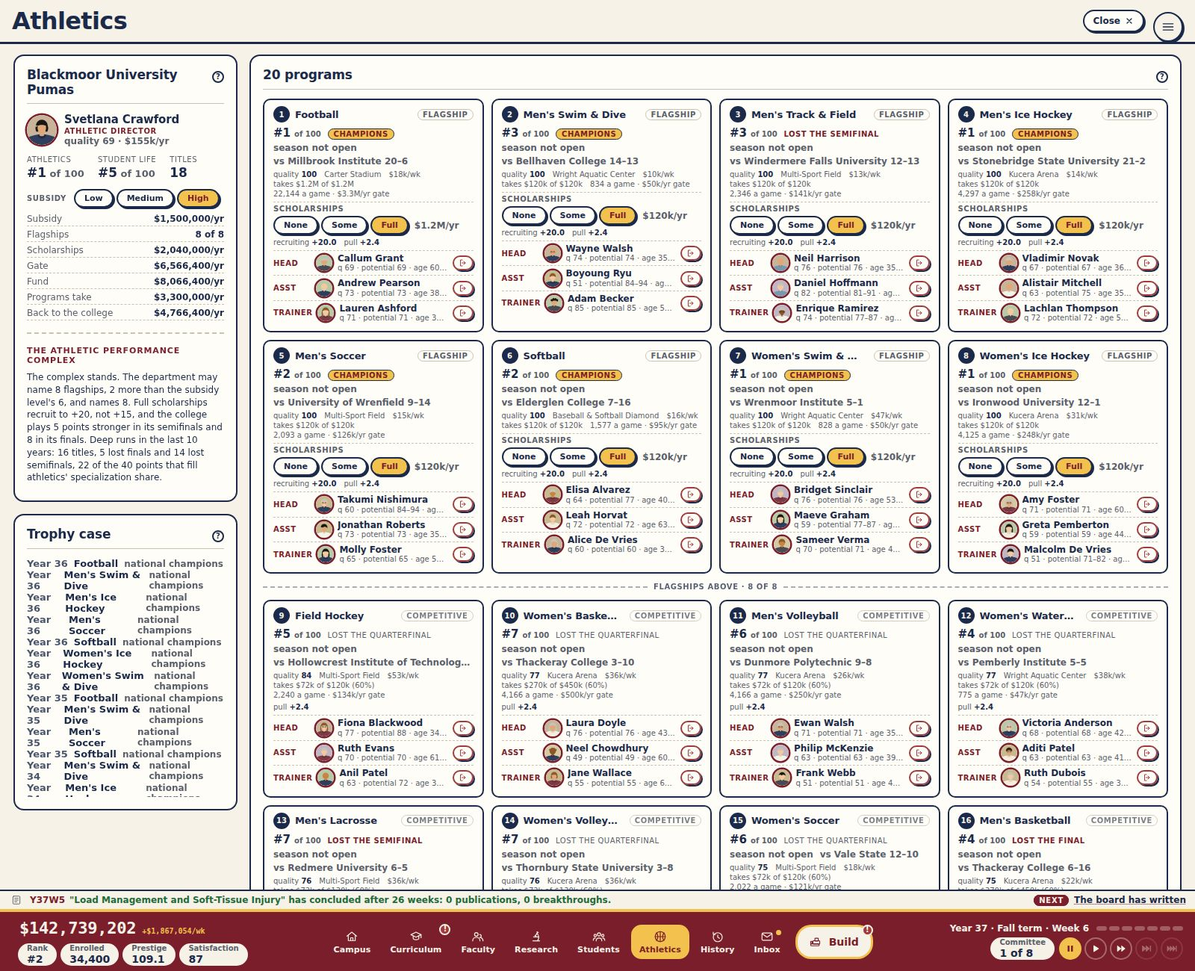
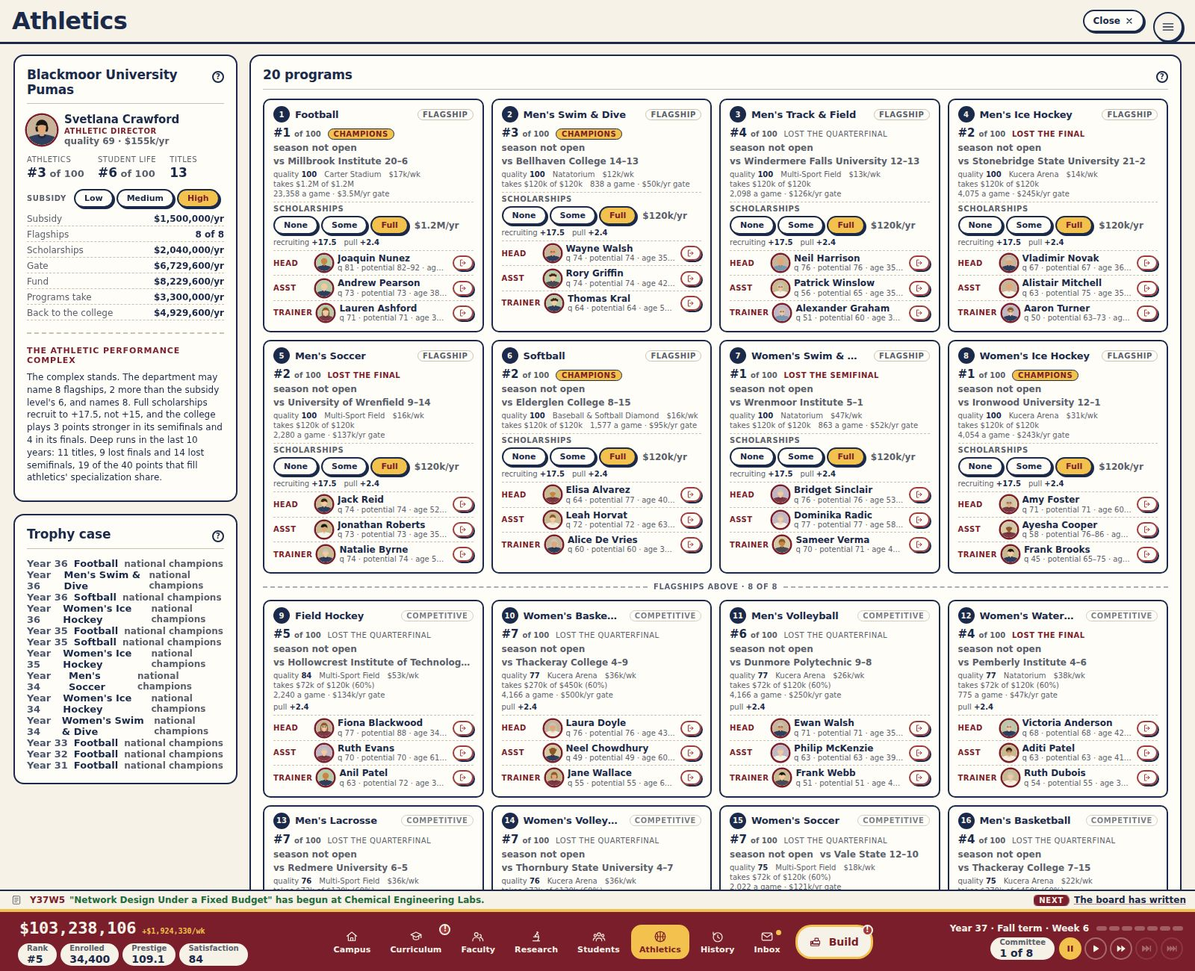
Plan 85G: the owner's decisions (fewer titles); #280
The owner kept the complex's cost ($30M, 104 weeks, $35,000 a week) and
asked for fewer titles, about 25-40 by year 50. The complex's postseason
edge is halved (semifinal +5 -> +3, final +8 -> +4) and its recruiting
boost with it (+1/3 -> +1/6); the two extra flagships are kept and the
term's full mark stays at 40, which still fills it 10-11 years after the
choice.

Halving is not enough: the athletics specialists win 49-64 (Guided) and
28-69 (Completionist) by year 50, against 56-80 and 33-70. The main driver
is the specialization's own lift (85D), not the complex: with none of the
complex's mechanics Guided still wins 31-38. The note measures a lever
for the owner (a quarter of the big stage kept for the specialized
college: Guided 18-41, Completionist 12-30) without building it.

Unspecialized play is unchanged and never first; the athletics
specialists are first from years 40-45 (Guided, every seed) and 45 (the
Completionist, two of three). Merged main (#279's canvas hotfix); the PR
is #280. Sim re-recorded with 0 deltas; tab, term and choice screenshots
retaken.

Claude-Session: https://claude.ai/code/session_01626829xCDikHrhnzaA5AeP

diff --git a/unischool/src/data/athleticsComplexData.ts b/unischool/src/data/athleticsComplexData.ts
@@ -27,20 +27,22 @@ export const ATHLETICS_COMPLEX_NAME = 'the Athletic Performance Complex';
 // for the owner's review.
 export const COMPLEX_FLAGSHIPS = 2;
 
-// The recruiting boost (a proposal, for the owner's review): while the
-// complex works, every flagship's scholarships recruit this much more, so
-// full scholarships build to +20 over the four classes, not +15
+// The recruiting boost (the owner's decision, 2026-10-01: halved from the
+// first version's third, for fewer titles): while the complex works, every
+// flagship's scholarships recruit this much more, so full scholarships
+// build to +17.5 over the four classes, not +15
 // (studentLifeData.ts's RECRUITING_FULL_LIFT). It builds a class a year, as
 // recruiting does, and falls away a class a year if the complex goes.
-export const COMPLEX_RECRUITING_BOOST = 1 / 3;
+export const COMPLEX_RECRUITING_BOOST = 1 / 6;
 
-// Better odds deep in the postseason (a proposal, for the owner's review):
-// while the complex works, the college plays this many points stronger in
+// Better odds deep in the postseason (the owner's decision, 2026-10-01:
+// about halved from the first version's 5 and 8, for fewer titles): while
+// the complex works, the college plays this many points stronger in
 // its own semifinals and finals (playoffs.ts's stageEdge; at 25 points of
 // difference the stronger side wins about three times in four). The
 // athletics specialization alone takes the established powers' edge away
 // (Plan 85D); the complex turns the big stage the college's way.
-export const COMPLEX_HOME_EDGE: Readonly<Record<'quarterfinal' | 'semifinal' | 'final', number>> = { quarterfinal: 0, semifinal: 5, final: 8 };
+export const COMPLEX_HOME_EDGE: Readonly<Record<'quarterfinal' | 'semifinal' | 'final', number>> = { quarterfinal: 0, semifinal: 3, final: 4 };
 
 // The athletics pillar's specialization term reads the complex's deep
 // runs: each postseason the department reached the last four while the
@@ -128,7 +130,7 @@ export function complexReading(s: GameState): number {
 const pct = (x: number) => `${Math.round(x * 100)}%`;
 const points = (x: number) => (Math.abs(x - Math.round(x)) < 0.01 ? `${Math.round(x)}` : x.toFixed(2).replace(/0$/, ''));
 const count = (n: number, one: string, many: string) => `${n} ${n === 1 ? one : many}`;
-const recruitedFull = (full: number) => Math.round(full * (1 + COMPLEX_RECRUITING_BOOST));
+const recruitedFull = (full: number) => Number((full * (1 + COMPLEX_RECRUITING_BOOST)).toFixed(1));
 const SCORING = 'a title counts 1, a lost final a half and a lost semifinal a quarter';
 
 export function runsSummary(s: GameState): string {

diff --git a/unischool/src/data/projectData.ts b/unischool/src/data/projectData.ts
@@ -116,7 +116,7 @@ export const PROJECTS: readonly ProjectDef[] = [
   // Costed beside the Faculty Training Institute, the other specialization
   // building a college can raise at the choice, and well above the venues
   // (the Football Stadium is $6.5M), since it is a capital project; its
-  // upkeep is the complex's running cost. A proposal, for the owner's review.
+  // upkeep is the complex's running cost. Kept by the owner (2026-10-01).
   {
     id: 'PROJ-ATHLETICS-COMPLEX', name: 'The Athletic Performance Complex',
     description: `A glass-walled training center beside the venues: a strength hall, a sports-science lab, recovery pools, film rooms and a running track on the roof, where every varsity athlete trains. At a college specialized in athletics it carries ${COMPLEX_FLAGSHIPS} more flagship programs than the subsidy level allows, its scholarships recruit ${Math.round(COMPLEX_RECRUITING_BOOST * 100)}% more, its teams play stronger in a semifinal and a final, and its deep runs fill athletics' specialization share.`,

diff --git a/docs/plans/85-specializations.md b/docs/plans/85-specializations.md
@@ -5,7 +5,7 @@ trade-offs into PRs: four pillars of success, a college that can be
 excellent at all four, and a late, permanent choice that lets it be the
 very best at one.*
 
-**Status: In progress: A–G merged (#268, #274–#279).**
+**Status: In progress: A–G merged (#268, #274–#278, #280).**
 
 ---
 
@@ -1351,17 +1351,30 @@ direct lift, and the boost is 15%.
 - **Checks:** the harness's athletics specialist wins titles regularly by
   year 50, and an unspecialized goal player rarely does.
 
-**As implemented (#279):** a college specialized in athletics may build the
+**As implemented (#280):** a college specialized in athletics may build the
 Athletic Performance Complex, and while it stands there the department may
 name two flagships above its subsidy level's, its scholarships recruit a
-third more, and the college plays stronger in its own semifinals and finals.
+sixth more, and the college plays stronger in its own semifinals and finals.
 The athletics pillar's specialization term now reads what the complex
 produces, the department's deep postseason runs over the last ten years, in
 place of 85D's ten years. Save version 92. *"Lifts the athletics pillar's
 ceiling" is the term since 85D's review: no pillar has a ceiling (§2).*
-**Every size below is a proposal, for the owner's review:** the complex's
-cost and upkeep, the two flagships, the recruiting boost, the postseason
-edge and the term's reading.
+**The owner's decisions (2026-10-01), reviewing the first version:**
+
+1. **The complex's cost is kept:** $30M to build over 104 weeks, and $35,000
+   a week to run.
+2. **Fewer titles: about one or two a year, around 25 to 40 by year 50.**
+   The first version's athletics specialists won 56 to 80, up to seven in a
+   year. The complex's postseason edge was halved (a semifinal +5 → +3, a
+   final +8 → +4) and its recruiting boost with it (+⅓ → +⅙); the two extra
+   flagships were kept. That is not enough on its own: the specialists win
+   49 to 64 (Guided) and 28 to 69 (the Completionist). What drives the count
+   is the athletics specialization's own lift (85D), not the complex: with
+   no slowdown and no edge for the established powers, every flagship plays
+   at 100 and wins, and with none of the complex's mechanics at all Guided
+   still won 31 to 38. The lever proposed below (a quarter of the big stage
+   kept for the specialized college) is measured, not built: it touches
+   85D's lift, which the owner asked not to change here.
 
 - **The complex** (`projectData.ts`'s `PROJ-ATHLETICS-COMPLEX`, "The
   Athletic Performance Complex") is a capital project like the others, built
@@ -1371,8 +1384,8 @@ edge and the term's reading.
   and the build menu lists it closed, with the reason, to any other college
   (85F's `closedBySpecialization`). It lifts no standing of its own: the
   term reads what it does.
-  - **Cost (a proposal):** $30M and 104 weeks, with upkeep of $35,000 a
-    week: the Faculty Training Institute's figures, the other specialization
+  - **Cost (kept by the owner):** $30M and 104 weeks, with upkeep of $35,000
+    a week: the Faculty Training Institute's figures, the other specialization
     building a college raises at the choice. The venues are far cheaper (the
     Football Stadium is $6.5M, the Arena $1.8M), but the complex is a
     capital project, priced with the Graduate College ($25M) and the
@@ -1395,18 +1408,19 @@ edge and the term's reading.
   - **More flagships** (`COMPLEX_FLAGSHIPS`, 2): `departmentPot`'s cap is the
     subsidy level's 2, 4 or 6 and two more; the pot carries `baseCap`, the
     subsidy level's alone. Each is funded in full and may recruit.
-  - **A recruiting boost (a proposal: a third, `COMPLEX_RECRUITING_BOOST`):**
-    `recruitingTarget` takes the boost, so full scholarships build to +20
-    over the four classes, not +15. It builds and falls away a class a year,
-    as recruiting does. The scale's top is `RECRUITING_MAX_LIFT`, 20, which
-    the load's clamp and the invariants read.
-  - **Better odds deep in the postseason (a proposal:
-    `COMPLEX_HOME_EDGE`, 5 in a semifinal and 8 in a final):** with the
-    athletics specialization `stageEdge` is the complex's edge negated, so
-    the college plays that much stronger in its own semifinals and finals.
-    At 25 points of difference the stronger side wins three times in four;
-    8 points makes a final between equals about three in five. The draws are
-    unchanged.
+  - **A recruiting boost (the owner's halving: a sixth,
+    `COMPLEX_RECRUITING_BOOST`; it was a third):** `recruitingTarget` takes
+    the boost, so full scholarships build to +17.5 over the four classes, not
+    +15. It builds and falls away a class a year, as recruiting does. The
+    scale's top is `RECRUITING_MAX_LIFT`, 17.5, which the load's clamp and
+    the invariants read.
+  - **Better odds deep in the postseason (the owner's halving:
+    `COMPLEX_HOME_EDGE`, 3 in a semifinal and 4 in a final; it was 5 and
+    8):** with the athletics specialization `stageEdge` is the complex's edge
+    negated, so the college plays that much stronger in its own semifinals
+    and finals. At 25 points of difference the stronger side wins three
+    times in four; 4 points makes a final between equals about 59 in 100.
+    The draws are unchanged.
 - **The term reads the complex** (`complexReading`,
   `SPECIALIZATION_READINGS.athletics`): the department's deep runs in the
   last `COMPLEX_WINDOW_YEARS` (10), a title worth 1, a lost final a half and
@@ -1414,8 +1428,8 @@ edge and the term's reading.
   `COMPLEX_POINTS_FOR_FULL` (40). Nothing while no complex stands: the row
   says the complex is missing, or still going up, and how it fills.
   Standing, it reads "…training at the Athletic Performance Complex, its
-  programs have made 16 titles, 5 lost finals and 14 lost semifinals in the
-  last 10 years, 22 points (a title counts 1, a lost final a half and a lost
+  programs have made 11 titles, 9 lost finals and 14 lost semifinals in the
+  last 10 years, 19 points (a title counts 1, a lost final a half and a lost
   semifinal a quarter). It fills as that rises, full at 40."
   - **The record:** `orgs.complexRuns`, a year, a sport and a finish, the
     window's years only, written by the postseason (`playoffs.ts`'s
@@ -1429,15 +1443,18 @@ edge and the term's reading.
     slowdown gone, every flagship of the harness's specialist plays at 100
     about six years after the choice.
   - **Pacing:** at 12 points the term filled three years after the complex
-    opened; at 40 it fills 10 or 11 years after the choice for the Guided
-    variant and 10 to 12 for the Completionist's, the build included, as
-    academics and research fill. The deep runs settle at 39 to 48 points a
-    window by year 50, so it stays nearly full (0.98 to 1.0).
+    opened; at 40 it fills 10 or 11 years after the choice, the build
+    included, as academics and research fill. With the owner's halved edge
+    and boost the deep runs barely fell (most of them come from flagships
+    playing at 100, above), so the full mark stays at 40, which still fills
+    it in 10 or 11 years. The deep runs stand at 39 to 51
+    points a window at year 50, so it stays nearly full (0.97 to 1.0). (The
+    first version's figures: 40, 43, 40 and 45, 51, 41.)
 
     | | Choice | Complex begun / open | Half full | Full | Years to fill |
     |---|---|---|---|---|---|
-    | Guided, athletics | 30, 32, 30 | 31 / 33, 33 / 35, 31 / 33 | 37, 40, 37 | 40, 43, 40 | 10, 11, 10 |
-    | Completionist, athletics | 34, 39, 31 | 35 / 37, 40 / 42, 32 / 34 | 41, 47, 38 | 45, 51, 41 | 11, 12, 10 |
+    | Guided, athletics | 30, 32, 30 | 31 / 33, 33 / 35, 31 / 33 | 38, 39, 36 | 41, 43, 40 | 11, 11, 10 |
+    | Completionist, athletics | 34, 39, 31 | 35 / 37, 40 / 42, 32 / 34 | 42, 47, 38 | 44, 50, 41 | 10, 11, 10 |
 - **The words** (`athleticsComplexData.ts`'s `COMPLEX_WORDS`, Plan 47's
   glossary, which gains *deep run*):
   - **the choice's card:** the athletics card's opening line ends "filling
@@ -1453,7 +1470,7 @@ edge and the term's reading.
     otherwise that it is the athletics specialization's own building. The
     Flagships figure reads "8 of 8" and its hint counts the complex's slots;
     the order's help says the line is the subsidy's and the complex's; a
-    flagship's scholarship buttons and recruiting line say +20 at the
+    flagship's scholarship buttons and recruiting line say +17.5 at the
     complex;
   - **the complex's description** says what it does, and only for a college
     specialized in athletics.
@@ -1488,7 +1505,7 @@ edge and the term's reading.
   week for a college specialized in athletics, as a new run's does), and the
   record starts empty. `test/fixtures/save-v91.json` is the
   `year-8-balanced` scenario written before the bump. The load drops a
-  malformed run (`sanitizeComplexRuns`) and clamps recruiting to 0–20.
+  malformed run (`sanitizeComplexRuns`) and clamps recruiting to 0–17.5.
 - **The sim moves**, against main's baseline (85F), medians of three seeds;
   pillar ranks at year 50, academics / research / student life / athletics:
 
@@ -1499,8 +1516,8 @@ edge and the term's reading.
   | Selective | 60 / 57 / 61 | 43.2 / 51.6 / 53.1 | 86.4 / 81.1 / 82.3 | 57 / 63 / 21 / 100 |
   | Lean | 64 / 64 / 72 | 40.1 / 43.3 / 42.8 | 75.8 / 75.0 / 73.8 | 56 / 81 / 27 / 100 |
   | Idle | 80 / 66 / 75 | 30.4 / 41.9 / 38.8 | 84.0 / 84.0 / 84.1 | 79 / 80 / 28 / 100 |
-  | Guided, athletics (fixed pick) | 56 / 29 / 1 (−1) | 50.2 / 80.0 / 123.1 (+7.5) | 85.8 / 83.7 / 87.1 (+0.3) | 9 / 9 / 4 / 1, was 8 / 9 / 4 / 19 |
-  | Completionist, athletics (fixed pick) | 56 / 34 / 1 (−2) | 50.1 / 79.1 / 121.8 (+8.5) | 85.7 / 88.2 / 89.2 (−0.1) | 8 / 11 / 4 / 1, was 9 / 14 / 4 / 13 |
+  | Guided, athletics (fixed pick) | 56 / 29 / 1 (−1) | 50.2 / 80.0 / 123.9 (+8.3) | 85.8 / 83.7 / 87.3 (+0.5) | 8 / 8 / 4 / 1, was 8 / 9 / 4 / 19 |
+  | Completionist, athletics (fixed pick) | 56 / 34 / 1 (−2) | 50.1 / 79.1 / 121.7 (+8.4) | 85.7 / 88.2 / 89.9 (+0.6) | 9 / 10 / 4 / 1, was 9 / 14 / 4 / 13 |
 
   When each first reached each place, its pick and the complex (seeds 12345,
   4242, 777; the year's first week):
@@ -1510,9 +1527,9 @@ edge and the term's reading.
   | Guided | 30, 32, 29 | 36, 40, 35 | 46, 47, 42 | academics 30, 32, 30 | never |
   | Completionist | 33, 39, 31 | 40, 43, 40 | 47, never (best 2), 47 | academics 34, 39, 31 | never |
   | Guided, athletics, 85F | 30, 32, 29 | 35, 42, 34 | 49, never (best 4), never (best 2) | athletics 30, 32, 30 | (none) |
-  | Guided, athletics, now | 30, 32, 29 | 34, 38, 35 | 42, 45, 42 | athletics 30, 32, 30 | 31 / 33, 33 / 35, 31 / 33 |
+  | Guided, athletics, now | 30, 32, 29 | 34, 38, 35 | 42, 45, 40 | athletics 30, 32, 30 | 31 / 33, 33 / 35, 31 / 33 |
   | Completionist, athletics, 85F | 33, 39, 31 | 39, 43, 42 | 50, never (best 3), never (best 3) | athletics 34, 39, 31 | (none) |
-  | Completionist, athletics, now | 33, 39, 31 | 39, 43, 39 | 46, never (best 2), 43 | athletics 34, 39, 31 | 35 / 37, 40 / 42, 32 / 34 |
+  | Completionist, athletics, now | 33, 39, 31 | 38, 43, 38 | 45, never (best 2), 45 | athletics 34, 39, 31 | 35 / 37, 40 / 42, 32 / 34 |
 
   - **Nothing moves but the athletics specialists.** Guided, the
     Completionist, Selective, Lean and Idle are identical to main's on every
@@ -1523,12 +1540,13 @@ edge and the term's reading.
     place is 3, 3 and 5 and its prestige at year 50 110.9; the
     Completionist's 4, 4 and 7 and 110.5: as before, never first.
     Specialized in athletics, Guided is first on every seed, from years 42,
-    45 and 42 and at year 50; the Completionist on two of three, from 46 and
-    43 (second on 4242, which chooses in Year 39). Before, held to
+    45 and 40 and at year 50; the Completionist on two of three, from 45 and
+    45 (second on 4242, which chooses in Year 39). With the first version's
+    larger edge and boost the years were 42, 45, 42 and 46, 43. Before, held to
     athletics, Guided was first on one seed (Year 49) and the Completionist
     on one (Year 50).
   - **Why the athletics specialist now stands highest of all:** its prestige
-    at year 50 is 122.7 to 124.8, against 119.0 to 120.6 for Guided's own
+    at year 50 is 122.6 to 124.1, against 119.0 to 120.6 for Guided's own
     academics pick. Most of it is the department, not the complex: Guided
     hires no coaches and names no flagships unless it is specialized in
     athletics, so its athletics pillar stands at 57 to 61 (80th to 81st)
@@ -1549,23 +1567,44 @@ edge and the term's reading.
   | Championships goal player, athletics pick | the same: never offered the choice (best place 41st) | | | | |
   | Championships goal player, handed athletics at Year 30 (what-if) | 22 (13–30) | 1 | 95 (75–105) | 1 | 38 (34–41) |
   | Guided, athletics, 85F | never | 0 | 0 | 18, 19, 19 | 1, 4, 2 |
-  | Guided, athletics, now | 31, 35, 31 | 0 | 65, 56, 80 | 1, 1, 1 | 1, 1, 1 |
-  | Guided, athletics, the complex's mechanics off | 31, 36, 31 | 0 | 35, 31, 38 | 1, 1, 1 | (measured with the term at 12) |
+  | Guided, athletics, first version (+5 / +8, +⅓) | 31, 35, 31 | 0 | 65, 56, 80 | 1, 1, 1 | 1, 1, 1 |
+  | **Guided, athletics, now (+3 / +4, +⅙)** | 31, 35, 31 | 0 | 61, 49, 64 | 1, 1, 1 | 1, 1, 1 |
+  | Guided, athletics, now but no extra flagships | 31, 35, 31 | 0 | 44, 43, 52 | 1, 1, 1 | 1, 1, 1 |
+  | Guided, athletics, none of the complex's mechanics | 31, 36, 31 | 0 | 35, 31, 38 | 1, 1, 1 | (measured with the term at 12) |
+  | Guided, athletics, now, with the lever: ¼ of the big stage kept | 33, 35, 32 | 0 | 41, 18, 32 | 1, 1, 1 | 1, 1, 1 |
   | Completionist, athletics, 85F | never | 0 | 0 | 13, 11, 15 | 1, 3, 3 |
-  | Completionist, athletics, now | 35, 42, 32 | 0 | 48, 33, 70 | 1, 1, 1 | 1, 2, 1 |
+  | Completionist, athletics, first version | 35, 42, 32 | 0 | 48, 33, 70 | 1, 1, 1 | 1, 2, 1 |
+  | **Completionist, athletics, now** | 35, 42, 32 | 0 | 48, 28, 69 | 1, 1, 1 | 1, 2, 1 |
+  | Completionist, athletics, now but no extra flagships | 35, 42, 32 | 0 | 28, 22, 43 | 1, 1, 1 | 1, 2, 1 |
+  | Completionist, athletics, now, with the lever: ¼ kept | 37, 42, 33 | 0 | 19, 12, 30 | 1, 1, 1 | 1, 2, 1 |
 
   - **The check is met:** the athletics specialist wins titles every year
-    from the year after its choice, three to four a year once the complex
-    stands (up to seven in one year), and the unspecialized championships player wins one to five in
-    fifty years. Nothing moves before the choice (no title by year 25 for
-    anyone held to athletics).
-  - **The first title comes from the specialization, the rate from the
-    complex.** With the specialization and the harness's department, and
-    none of the complex's mechanics (no extra flagships, no boost, no edge),
-    Guided wins 31 to 38 by year 50; with them, 56 to 80. Every flagship
-    plays at 100 by about six years after the choice, so the recruiting
-    boost mostly shortens the climb; the extra slots and the edge make the
-    difference in titles.
+    from the year after its choice, about three a year once the complex
+    stands (up to seven in one year), and the unspecialized championships
+    player wins one to five in fifty years. Nothing moves before the choice
+    (no title by year 25 for anyone held to athletics).
+  - **The owner's target (25 to 40) is not met by the complex's numbers.**
+    Halving the edge and the boost took off only 4 to 16 titles for Guided.
+    Of what is left, the two extra flagships are worth 6 to 17 for Guided
+    and 6 to 26 for the Completionist (without them Guided wins 43 to 52,
+    the Completionist 22 to 43), and the
+    specialization's lift itself about 31 to 38: with none of the complex's
+    mechanics, every flagship plays at 100 about six years after the choice
+    and no established power has an edge over it. The extra flagships are
+    the complex's largest driver but not the main one, so they are kept.
+  - **The lever proposed, for the owner's decision** (measured only, in a
+    copy; nothing changed in the game): keep part of the big stage
+    (`STAGE_EDGE`, 8 / 20 / 35) against a college specialized in athletics,
+    in place of 85D's taking it all away, with the complex's edge then
+    offsetting it. With a quarter kept (2 / 5 / 9 before the complex, so
+    2 / 2 / 5 with it) and everything else as now, Guided wins 18 to 41 by
+    year 50 and the Completionist 12 to 30, about one or two a year, and
+    both are still first where they were (Guided in years 43, 45 and 43; the
+    Completionist in 47 and 44, second on 4242). With half kept, Guided
+    wins 13 to 26 and the Completionist 9 to 10; with three quarters, 7 to
+    10 and 2 to 7. The term's full mark would then come down with the runs
+    (they stand at 23 to 40 points a window at year 50 with a quarter kept),
+    to about 25.
   - **The championships goal player never reaches the milestone,** so a
     fixed athletics pick changes nothing for it (its best place in any run
     is 41st): it builds athletics first and the college that pays for it
@@ -1578,15 +1617,14 @@ edge and the term's reading.
     alone cannot carry a college to first place: that needs the other three
     pillars near the top, as the Guided and Completionist variants have.
 - **What is left for 85I** (open):
-  - **The sizes** above are proposals: two flagships, a third more
-    recruiting, 5 and 8 points in the semifinal and final, a full term at 40
-    points of deep runs, and $30M with $35,000 a week.
-  - **Titles are plentiful** for the athletics specialist: 56 to 80 by year
-    50, up to seven in a year. The athletics pillar is full either way (its
-    titles term fills at 12 weighted titles), so the count matters for the
-    term's pacing and the side effects (applicants, donors) more than for
-    prestige. Smaller edges would bring the count down, and the term's
-    full mark with it.
+  - **The lever above,** for the owner: a quarter of the big stage kept for
+    the athletics specialist, which would bring the titles into 25 to 40
+    and the term's full mark to about 25.
+  - **Titles are still plentiful** for the athletics specialist: 49 to 64
+    (Guided) and 28 to 69 (the Completionist) by year 50. The athletics
+    pillar is full either way (its titles term fills at 12 weighted titles),
+    so the count matters for the term's pacing and the side effects
+    (applicants, donors) more than for prestige.
   - **The athletics specialist stands above the academic one** at year 50
     (above): a harness asymmetry, for 85I's variants.
   - **The championships goal player cannot specialize:** it never reaches
@@ -1624,7 +1662,7 @@ edge and the term's reading.
   - `85g-athletics-tab.jpg`, the Athletics tab: eight flagships, the
     complex's section, the trophy case;
   - `85g-athletics-term.jpg`, History › Prestige with athletics opened on
-    the term (22 of 40 points);
+    the term (19 of 40 points);
   - `85g-choice.jpg`, the choice in Year 31 (the `specialization`
     scenario) with the complex and its mechanics under *Now*.
 

diff --git a/docs/plans/README.md b/docs/plans/README.md
@@ -104,7 +104,7 @@ the repository root, and the game as it actually is lives in `docs/design/` and
 | 82 | [Turning whole](82-turning-whole.md) | The owner: rotation is broken, walkers, trees and the land around the campus vanish on the in-between frames; go back to a turn that draws everything. Undo 80H's light turn and 81B's hidden ring, and draw the walkers at the scene's committed camera. PR A. | Landed |
 | 83 | [A faster map](83-a-faster-map.md) | The backlog's faster map, planned: the SVG scene (about 17,600 nodes at year 30) rebuilds every frame of a turn, about 195 ms a frame. A canvas 2D painter reusing the existing art, the projection and the depth sort, with labels and marks staying SVG over it; a measured prototype decides go or stop, then the scene with picking, walkers drawn in the depth order, and the tools and keyboard access, with the SVG scene kept as the fallback. PRs A–E. | Landed |
 | 84 | [The faculty as people](84-the-faculty-as-people.md) | The owner's faculty ideas: a candidate market whose potentials rise with prestige and research standing (raw at first, growing with tenure), so a retirement late in a run finds a better replacement; a career record on each professor (arrival, courses taught by span, research, prizes, yearly stats); the Faculty tab as a sortable, filterable grid of portrait tiles; and a tile that expands into the person. PRs A–E. | Landed |
-| 85 | [Specializations](85-specializations.md) | The owner's four pillars (academics, research, student life, athletics; athletics counting least) with prestige as their blend, which changes the standing decision that prestige is academic standing. Each pillar capped a little short without its specialization, so optimal play reaches the top 10; a permanent choice at a rank milestone reached in years 25–40 lifts one: a faculty training program, the research park, the downtown and its festival, or an athletic performance complex. Rivals specialize too; athletics made harder. Depends on Plan 84's grid. PRs A–I. | In progress: A–G merged (#268, #274–#279) |
+| 85 | [Specializations](85-specializations.md) | The owner's four pillars (academics, research, student life, athletics; athletics counting least) with prestige as their blend, which changes the standing decision that prestige is academic standing. Each pillar capped a little short without its specialization, so optimal play reaches the top 10; a permanent choice at a rank milestone reached in years 25–40 lifts one: a faculty training program, the research park, the downtown and its festival, or an athletic performance complex. Rivals specialize too; athletics made harder. Depends on Plan 84's grid. PRs A–I. | In progress: A–G merged (#268, #274–#278, #280) |
 | 60 | [Screens](60-screens.md) | The owner's playthrough, screens half: pill buttons that wrap become rounded rectangles; the Athletics tab in two columns with program cards carrying each sport's standing; a lab's options close; Curriculum schools and programs collapse once complete; a venue's panel tiles its teams; the History standings as six cards; the final report a full page; and the next-step line names a dark program first. One PR. | Landed |
 
 ## Naming

diff --git a/docs/design/student-life.md b/docs/design/student-life.md
@@ -548,16 +548,17 @@ specialized in athletics (`complexWorks`), and only then:
   subsidy level's 2, 4 or 6 and two more (`departmentPot`'s `cap`, with
   `baseCap` the subsidy level's). Each is funded in full from the
   department's fund and may recruit.
-- **Recruiting a third better** (`COMPLEX_RECRUITING_BOOST`): full
-  scholarships build to +20 over the four classes, not +15
+- **Recruiting a sixth better** (`COMPLEX_RECRUITING_BOOST`): full
+  scholarships build to +17.5 over the four classes, not +15
   (`recruitingTarget`'s boost; `RECRUITING_MAX_LIFT` is the scale's top).
 - **Better odds deep in the postseason** (`COMPLEX_HOME_EDGE`): the college
-  plays 5 points stronger in its own semifinals and 8 in its finals
+  plays 3 points stronger in its own semifinals and 4 in its finals
   (`playoffs.ts`'s `stageEdge` turns negative). At 25 points of difference
-  the stronger side wins three times in four, so 8 points is about a
-  three-in-five final between equals.
+  the stronger side wins three times in four, so 4 points makes a final
+  between equals about 59 in 100.
 
-The sizes are proposals, for the owner's review. The specialization alone
+The owner kept the cost and halved the first version's edge (5 and 8) and
+boost (a third) on 2026-10-01, asking for fewer titles. The specialization alone
 keeps Plan 85D's lift (no slowdown above the knee, no edge for the
 established powers) and gets none of these. The athletics pillar's
 specialization term reads what the complex produces: each postseason the
@@ -571,9 +572,14 @@ how many flagships it carries, and the flagships figure counts its slots.
 Measured on the harness's athletics specialist (Guided with a fixed pick of
 athletics, which runs the department as the specialization asks:
 `sim/harness/athletics.ts`): titles every year from the year after the
-choice, 56 to 80 by Year 50 (35 to 38 with the specialization and none of
-the complex's mechanics), and the term full 10 or 11 years after the
-choice. The unspecialized championships player still wins one to five.
+choice, 49 to 64 by Year 50 (31 to 38 with the specialization and none of
+the complex's mechanics, 56 to 80 with the first version's edge and boost),
+and the term full 10 or 11 years after the choice. The unspecialized
+championships player still wins one to five. The owner's target is about 25
+to 40: what drives the count is the specialization's own lift, which lets
+every flagship play at 100 with no edge against it, and Plan 85's 85G note
+measures a lever for it (a quarter of the big stage kept for the
+specialized college), not yet built.
 
 **This is the loop the whole athletics feature was built for**, and every arrow
 in it now exists: fund a program → hire a coach → team quality rises → the

diff --git a/docs/design/progression.md b/docs/design/progression.md
@@ -294,9 +294,9 @@ late, and kept:
   chooses research. So is athletics' (Plan 85G): the Athletic Performance
   Complex, a capital project only a college specialized in athletics may
   build, which while it stands gives the department two flagships above the
-  subsidy level's, scholarships that recruit a third more and a college 5
-  points stronger in its semifinals and 8 in its finals (proposals, for the
-  owner's review; see [student-life.md](student-life.md)). The build menu
+  subsidy level's, scholarships that recruit a sixth more and a college 3
+  points stronger in its semifinals and 4 in its finals (the owner's
+  decisions, 2026-10-01; see [student-life.md](student-life.md)). The build menu
   lists a specialization's building closed, with the reason, to a college
   that has earned it otherwise.
 - History › Prestige and the standings say where the college stands on the
@@ -316,8 +316,7 @@ specialization's (Plan 85F), Guided is first from years 42–47 on every
 seed, the Completionist from 47 on two of three; both still choose
 academics. Held to research, Guided is first from years 46–47 on every
 seed. Held to athletics (Plan 85G, the complex built), Guided is first from
-years 42–45 on every seed and the Completionist from 46 and 43 on two of
-three. Held to no
+years 40–45 on every seed and the Completionist from 45 on two of three. Held to no
 specialization, neither is ever first (best 4th; since Plan 85F, best
 3rd).
 
